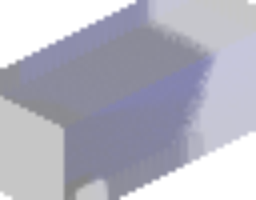
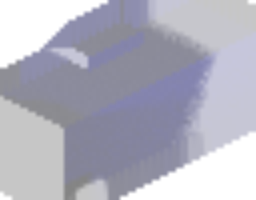
Nordwall: Sitzplätze der Tauben im Manifest, Sturz über der Pforte
perches nennt elf Plätze auf Dachkanten, die zur Kamera zeigen. Die Pforte in der westlichen
Hofmauer liegt auf der abgewandten Seite, zu sehen ist ihr Granitsturz über der Mauerkrone.
Die Regelkarte schreibt weiter allein tools/level/scene_to_map.py, build_map.py vergleicht nur.

Changed region(s): [[0.1562, 0.0, 0.5312, 0.36], [0.4062, 0.12, 0.4688, 0.18]]

diff --git a/tools/art/build_map.py b/tools/art/build_map.py
@@ -43,6 +43,10 @@ THEMES = {
         },
         "seed": 1880,
         "backdrop_keep": lambda x, y, w, d: y + d > 0.5,  # nördlich des Walls liegt keine Stadt mehr
+        # Sitzplätze der Tauben: Feld x, y und Höhe in Bildpunkten, jeweils auf einer Dachkante, die zur Kamera zeigt.
+        # Die Höhe ist die Traufe des Hauses darunter, daran findet das Spiel die richtige Zeichentiefe.
+        "perches": [(3.0, 1.95, 60), (3.6, 1.95, 60), (12.4, 1.95, 60), (17.2, 1.95, 60), (9.0, 9.95, 40), (9.6, 9.95, 40),
+                    (18.95, 5.0, 120), (18.95, 5.6, 120), (16.0, 16.95, 56), (4.95, 4.4, 150), (4.95, 5.0, 150)],
     },
 }
 
@@ -291,6 +295,12 @@ def nordwall_building(b, s, things):
                 dr.fine_line((u, 16, u + 22, 16), fill=g.C["iron"])
                 dr.fine_line((u, h - 6, u + 22, h - 6), fill=g.C["iron"])
         roof = roof_flat(2)
+        hidden = [door for door in b.get("doors", ()) if door["side"] == "west"]
+        if hidden:
+            # Die Pforte liegt auf der abgewandten Seite. Zu sehen ist nur ihr Sturz aus Granit über der Mauerkrone.
+            at = b["y0"] + hidden[0]["at"]
+            plain = roof
+            roof = lambda x0, y0, x1, y1, hh: plain(x0, y0, x1, y1, hh) + [R.block(x0, at - 0.42, x0 + 0.3, at + 0.42, hh, hh + 9, mat_walk, "lintel")]  # noqa: E731
     else:  # Mietshaus der Beamten und alles Unbekannte: Klinker mit Granitbändern, schlicht
         left, d = office_front(wl, h, lit, floors=2, door_at=wl // 2)
         g.door(d, wl // 2 - 8, h - 1, 16, 30, "wood", True)
@@ -485,6 +495,7 @@ def export(scene, theme, s, things, assets):
         if t.solid:
             solids.append({"x0": t.x0, "y0": t.y0, "x1": t.x1, "y1": t.y1, "opaque": t.opaque})
     (assets / "manifest.json").write_text(json.dumps({"map": scene["id"], "ox": s.ox, "oy": s.oy, "things": manifest, "backdrop": backdrop,
+                                                      "perches": [list(p) for p in theme.get("perches", ())],
                                                       "hd": {"res": g.HD, "ground": "hd/ground.png", "things": [n for t, n, _ in exported if t.hd]},
                                                       **g.AMBIENT}), encoding="utf-8")
     g.export_backdrop(assets, theme.get("backdrop_keep"))
@@ -520,9 +531,11 @@ def main():
         return
     assets = ROOT / "game" / "assets" / "maps" / scene["id"]
     solids = export(scene, theme, s, things, assets)
+    # Die Regelkarte schreibt allein das Werkzeug der Level-Sitzung. Hier wird sie nur gelesen und mit den Bildern verglichen.
     map_file = ROOT / "data" / f"map_{nr}.json"
-    if map_file.exists():
-        print("Regelkarte passt zu den Bildern" if same_solids(solids, map_file) else "Regelkarte bitte prüfen")
+    if not map_file.exists():
+        subprocess.run([sys.executable, str(ROOT / "tools" / "level" / "scene_to_map.py"), nr], check=True)
+    print("Regelkarte passt zu den Bildern" if same_solids(solids, map_file) else "Regelkarte bitte prüfen")
     print(f"{len(things)} Objekte nach {assets}")
     if "--no-bake" not in sys.argv:
         subprocess.run([sys.executable, str(Path(__file__).with_name("bake_light.py")), f"--map={scene['id']}", f"--nr={nr}"], check=True)
